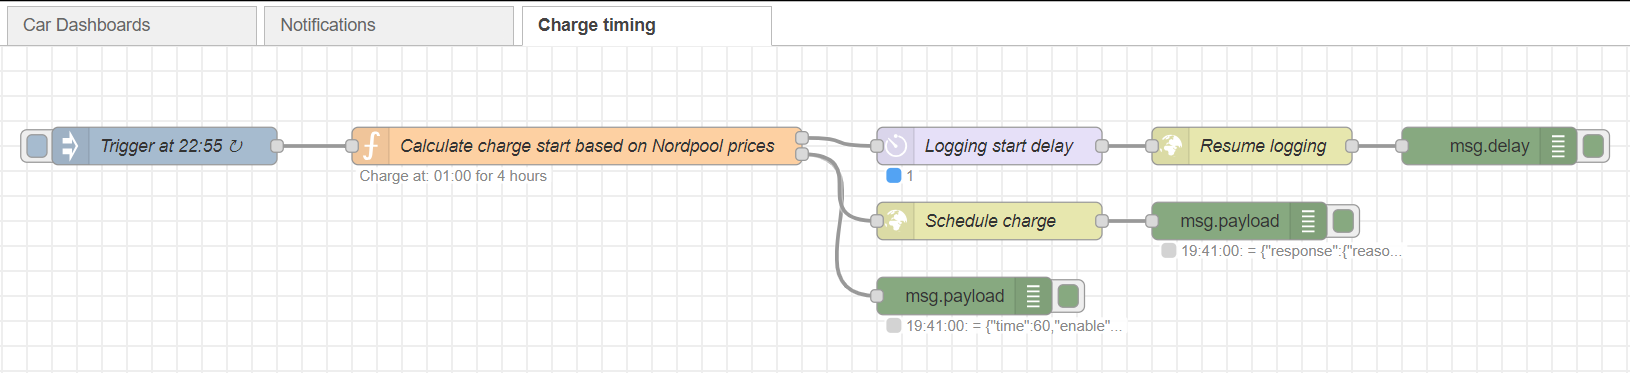
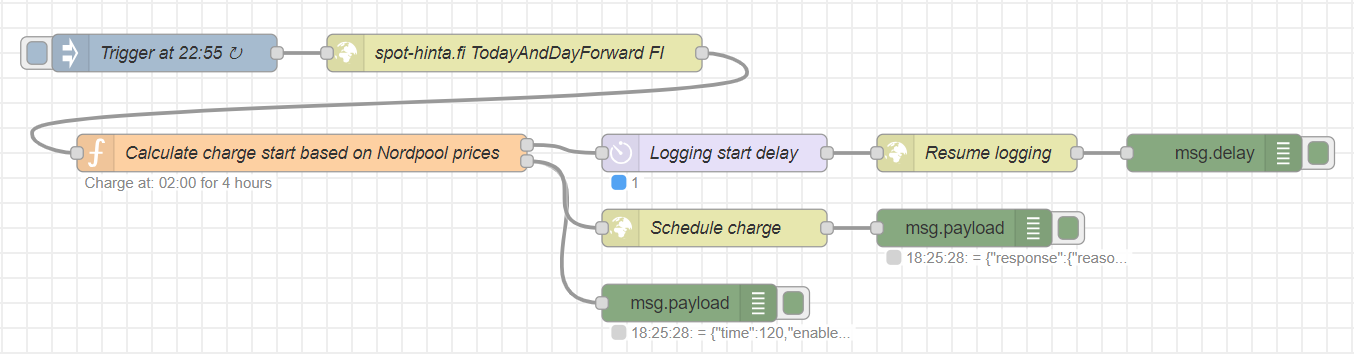
Switch from nordpoolapi NPM package to spot-hinta.fi REST API, more flexible charge window, fix bug on cold weather charge time calculation

Changed region(s): [[0.0, 0.0, 1.0, 0.9633]]

diff --git a/nordpool-teslamateapi.js b/nordpool-teslamateapi.js
@@ -1,27 +1,24 @@
-// Charge start window is the next full hour, for chargeWindowLength hours
-const chargeWindowLength = 8
+// Charging should be ready by this full hour, like 7:00 (24h, i.e. 7AM)
+const chargeReadyHour = 7
 
 // How many percentage points of charge the car gains in one hour
 const chargePercentagePointsPerHour = 9
 
 // How many percentage points the charge rate drops below 0°C, per each °
-const chargePercentagePointsPerHourColdFactor = 0.7
-
-// Nordpool market area
-const nordpoolArea = "FI"
+const chargePercentagePointsPerHourColdFactor = 0.07
 
 // Name of the 'home' geolocation
 const homeGeolocationName = "Koti"
 
 try {
-    const nordpool = new Nordpool.Prices()
-
     // 'Car Dashboards' saves the topics into global context in format [value, timestamp]
     const geofence = global.get("geofence")[0]
     const battery_level = global.get("battery_level")[0]
     const charging_state = global.get("charging_state")[0]
     const charge_limit_soc = global.get("charge_limit_soc")[0]
     const outside_temp = global.get("outside_temp")[0]
+
+    node.warn(`Battery ${battery_level}%, state: ${charging_state}, limit: ${charge_limit_soc}%, temp: ${outside_temp}`)
 
     if (geofence != homeGeolocationName || charging_state != "Stopped") {
         node.status({ text: `Not plugged in at home: ${geofence || "-"}/${charging_state || "-"}` })
@@ -31,32 +28,42 @@ try {
     const percentPointsPerHour = chargePercentagePointsPerHour + chargePercentagePointsPerHourColdFactor * (outside_temp < 0 ? outside_temp : 0)
     const chargeHours = Math.ceil((charge_limit_soc - battery_level) / percentPointsPerHour)
 
-    let tomorrow = new Date()
-    tomorrow.setDate(tomorrow.getDate() + 1)
-    tomorrow.setHours(0, 0, 0)
+    let prices = []
 
-    node.status({ text: "Fetching Nordpool prices" })
+    msg.payload.forEach(pricePoint =>
+        prices.push(
+            {
+                date: new Date(pricePoint.DateTime),
+                value: pricePoint.PriceNoTax
+            }
+        )
+    )
+    const nordpoolPrices = Enumerable.from(prices)
 
-    const todayPrices = await nordpool.hourly({ area: nordpoolArea })
-    const tomorrowPrices = await nordpool.hourly({ area: nordpoolArea, from: tomorrow })
-    const nordpoolPrices = Enumerable.from(todayPrices.concat(tomorrowPrices))
-
-    node.status({ text: "Nordpool prices fetched" })
-
-    // Charge start window is the next full hour
+    // Charge window start is the next full hour
     let chargeStartTime = new Date()
     chargeStartTime.setHours(chargeStartTime.getHours() + 1)
     chargeStartTime.setMinutes(0, 0, 0)
 
-    const pricesSinceElevenPM = nordpoolPrices.where(
+    // Charge window end
+    let chargeEndTime = new Date()
+    if (chargeStartTime.getHours() >= chargeReadyHour) {
+        chargeEndTime.setDate(chargeEndTime.getDate() + 1)
+    }
+    chargeEndTime.setHours(chargeReadyHour, 0, 0, 0)
+
+    const pricesDuringChargeWindow = nordpoolPrices.where(
         i => new Date(i.date).getTime() >= chargeStartTime.getTime()
-    ).take(chargeWindowLength)
-    const hoursToConsider = pricesSinceElevenPM.take(pricesSinceElevenPM.count() - chargeHours)
+            && new Date(i.date).getTime() < chargeEndTime.getTime()
+    )
+
+    const hoursToConsider = pricesDuringChargeWindow.take(pricesDuringChargeWindow.count() - chargeHours)
+
     let startHourPrices = []
 
     hoursToConsider.toArray().forEach(
         (price, index) =>
-            startHourPrices.push({ date: price.date, price: pricesSinceElevenPM.skip(index).take(chargeHours).sum(i => i.value) })
+            startHourPrices.push({ date: price.date, price: pricesDuringChargeWindow.skip(index).take(chargeHours).sum(i => i.value) })
     )
 
     const cheapestStartHours = Enumerable.from(startHourPrices).orderBy(i => i.price)
@@ -78,6 +85,7 @@ try {
     ]
 } catch (e) {
     node.warn(`Exception: ${e}`)
+    node.status({ text: `Failure, charge at 23:00` })
 
     // defaults:
     // * 4 minutes delay -> 22:59 if this executes at 22:55

diff --git a/README.md b/README.md
@@ -1,7 +1,7 @@
 # Optimize Tesla charging on Nordpool spot prices, utilizing the TeslaMateAPI
 
 The objective is to optimize Tesla charging based on Nordpool spot electricity prices, incorporating the following features:
-   * The charging window is set between 23:00 and 07:00, spanning 8 hours
+   * The charging window starts at trigger time, the end time is configurable in code
    * The automation identifies the most cost-effective contiguous time period within the charging window
    * Charge duration is estimated based on the current battery level and ambient temperature (the battery heater is required below 0°C)
    * Charging is controlled using the scheduled charging feature
@@ -15,7 +15,8 @@ This is implemented as a Node-RED flow, built on
    * TeslaMate
    * TeslaMateAPI
    * Node-RED
-   * NPM packages ```nordpool``` and ```js-linq```
+   * Nordpool prices from https://spot-hinta.fi
+   * NPM package ```js-linq```
 
 ![The Node-RED flow](nordpool-teslamateapi.png)
 
@@ -79,7 +80,7 @@ volumes:
   node-red-data:
 ```
 
-The file ```add-nr-modules.sh```, add ```nordpool``` and ```js-linq```
+The file ```add-nr-modules.sh```, add ```js-linq```
 
 ```
 #!/bin/sh
@@ -90,7 +91,6 @@ node-red-dashboard
 node-red-node-email
 node-red-contrib-telegrambot
 node-red-node-ui-table
-nordpool
 js-linq"
 set -x
 for MODULE in $MODULES
@@ -104,9 +104,11 @@ docker compose start node-red
 ## The Node-RED flow
 
 Import the file ```nordpool-teslamateapi.json``` into Node-RED. This will create a new flow, with the nodes in the picture
-   * Edit the node 'Trigger at 22:55' to set the charge window start. The scheduled time should be 5 minutes before full hour
+   * Edit the node 'Trigger at 22:55' to set the charge window start. The scheduled time for the trigger should be ~5 minutes before full hour
    * Edit the node 'Schedule charge', and enter the ```API_TOKEN``` value into the 'Token' field
    * Edit the node 'Calculate charge start based on Nordpool prices' to set your preferences
+   * Edit the node 'spot-hinta.fi TodayAndDayForward FI' to set your Nordpool market area (in URL parameter), default is 'FI'
+      * See https://www.nordpoolgroup.com/en/maps/#/nordic
    * _The file ```nordpool-teslamateapi.js``` is just the source code of the 'Calculate charge start based on Nordpool prices' node_
 
 The purpose of the 'Resume logging' node is to enhance TeslaMate's accuracy in logging charges. The workflow involves scheduling a 'resume logging' action in TeslaMate one minute before the charge begins. This step is crucial as, without it, TeslaMate might miss capturing several minutes at the start of the charging process.
@@ -117,6 +119,6 @@ Plug in your car and schedule a charge to start in the future. I.e. the car shou
 
 Click on the blue button on the left side of the trigger node
    * If the car is not plugged in at home, in charge stopped state, the 'Calculate charge start based on Nordpool prices' node will show 'Not plugged in at home...' status
-   * If the car is ready to be scheduled, the node should first show 'Fetching Nordpool prices' status, and then the scheduled charge start time as status
+   * If the car is ready to be scheduled, the node should show the scheduled charge start time as status
    * Open the Tesla app, or check the charge schedule from the car. The car should be scheduled to charge at the time calculated by the automation
 
